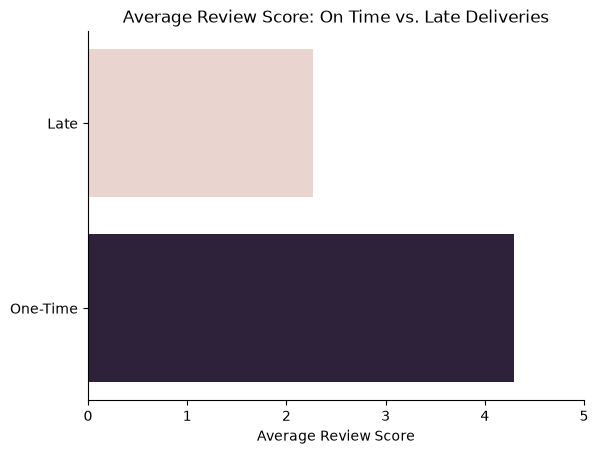
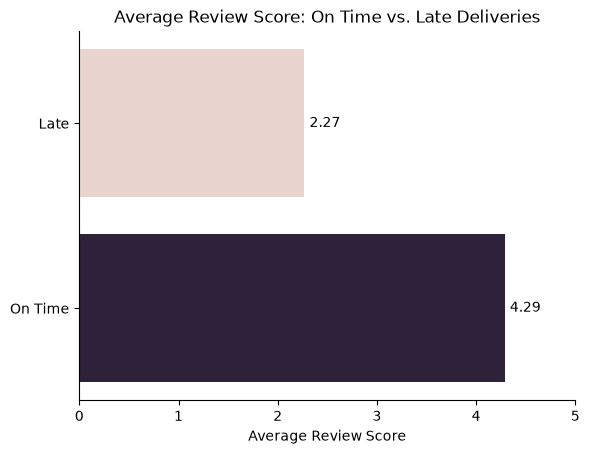
Update README with delivery vs reviews

diff --git a/README.md b/README.md
@@ -152,6 +152,30 @@ See notebook: [`1_EDA_intro.ipynb`](./project_python/1_EDA_intro.ipynb)
 
 > **Key insight:** Most orders arrive quickly: the median delivery time is **10 days**, and delivery times peak at around 6 to 9 days. Roughly 85% of orders arrive within three weeks. The distribution is right-skewed: a long tail of slow deliveries pulls the mean (**12 days**) above the median, so the median describes a typical delivery better. The chart is cut at the 99th percentile (about 46 days), so around 1% of orders took even longer. This national picture complements the SQL analysis by state, where averages hide how much individual orders vary.
 
+### 2. Do Late Deliveries Hurt Customer Satisfaction?
+
+The SQL part measured late deliveries and review scores separately. Here I connect them: I marked each delivered order as on time or late (delivered at least one day after the estimated date), measured how many days late it was, and compared the review scores.
+
+See notebook: [`2_delivery_vs_reviews.ipynb`](./project_python/2_delivery_vs_reviews.ipynb)
+
+```python
+df_delivered['days_late'] = (delivered_day - estimated_day).dt.days
+df_delivered['is_late'] = df_delivered['days_late'] > 0
+
+review_per_order = reviews.groupby('order_id')['review_score'].mean().reset_index()
+df = df_delivered.merge(review_per_order, on='order_id', how='inner')
+```
+
+![Average Review Score: On Time vs. Late Deliveries](./project_python/images/delivery_vs_reviews_overview.png)
+
+> **Key insight:** Late deliveries are strongly linked to lower ratings. Orders delivered on time average **4.29** stars, while late orders average **2.27**, a gap of about two stars. Late orders are only **6.7%** of delivered orders, yet **62.4%** of them received 1 or 2 stars, compared with only **9.2%** of on-time orders, about 6.8 times more often. As a result, late deliveries account for roughly a third (about **33%**) of all 1-2 star reviews, despite being a small share of orders.
+
+![Average Review Score by Delivery Delay](./project_python/images/delivery_vs_reviews_by_delay.png)
+
+> **Key insight:** Even a short delay hurts: orders that arrive only 1 to 3 days late already lose a full star (**3.29** vs. 4.29). The score keeps falling to **2.11** for 4 to 7 days and **1.67** for 8 to 14 days, then levels off at about **1.7** for delays above two weeks, since customers who wait that long almost always give the lowest rating. The estimated delivery date works like a promise: breaking it matters more than how long the delay lasts.
+
+**Limitations:** This shows an association, not proof of cause. Late orders may also differ in other ways (distance, product type), and I averaged the score for orders with more than one review. Orders are counted as late only when they arrive at least one full day after the estimated date.
+
 </details>
 
 
